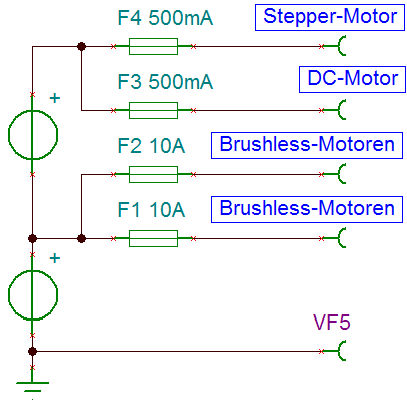
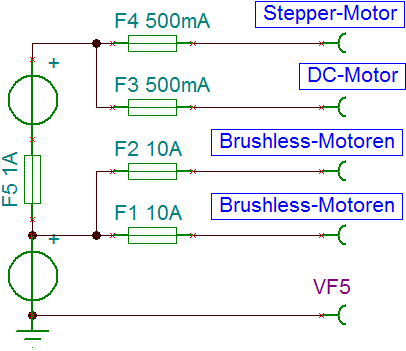
Diverse Texte ergänzt

diff --git a/doc/Enddokumentation/HorizontaleAusrichtung.tex b/doc/Enddokumentation/HorizontaleAusrichtung.tex
@@ -1,24 +1,2 @@
 \section{Horizontale Ausrichtung}
-    Um die Abwurfeinheit zum Ziel auszurichten, wird ein verstellbarer Mechanismus 
-    benötigt, der eine hohe Schrittgenauigkeit aufweist. Der Drehpunkt befindet sich 
-    möglichst unter den Schwungrädern, damit die Position des Abwurfes im Zentrum des 
-    Spielfeldes bleibt. Die Drehung wird mit einem Schrittmotor realisiert. Die 
-    Auflösung des flachen Schrittmotores beträgt 1.8 Grad/Schritt. Ein Schrittmotor 
-    ist für diese Anwendung am Besten geeignet, da somit eine sehr exakte Ansteuerung 
-    gewährleistet wird. Die Übersetzung des Zahnritzels zur Grundplatte beträgt 
-    $1/28$. Somit wird pro Schritt eine Dadurch kann der Verstellwinkel, 
-    welcher von der Position des Zieles abhängt, genau eingestellt werden. Der 
-    Schrittmotor wird in der Abwurfeinheit angebracht und treibt ein Ritzel an, welches 
-    in einen Zahnkranz eingreift. Dadurch kann die Abwurfeinheit gedreht werden. Dies 
-    ist in Abbildung \ref{abb:} ersichtlich. Damit die Bauhöhe nicht zusätzlich 
-    vergrössert wird, ist der Zahnkranz in die Bodenplatte integriert. Die Bodenplatte 
-    mit dem Zahnkranz reicht nicht über die ganze Abwurfeinheit, damit die Masse 
-    möglichst klein gehalten werden kann. Der Schrittmotor ist nach dem folgenden 
-    Drehmoment von ca. $2Nmm$ ausgelegt. Dies ist sehr klein, da nur der Reibungskoeffizient 
-    und die Normalkraft, welche vom Gewicht der Abwurfeinheit abhängt, das Moment erzeugen. 
-    Der Reibungskoeffizient wird durch die Lagerung klein gehalten. Die Lagerung erfolgt 
-    im Drehzentrum durch eine Hülse und im Endbereich der Abwurfeinheit durch zwei 
-    Kugelrollen, welche mit einem seitlichen Abstand angebracht sind. Dadurch wird die 
-    Auflagefläche verbreitert und das allfällige Kippen der Abwurfeinheit verhindert. 
-    Die Ansteuerung der Schrittmotoren erfolgt über den selbst konstruierten Controller, 
-    der als schwarzen Box in Abbildung \ref{abb:} dargestellt ist.
+    Die Ansteuerung des Stepper-Motors erfolgt über die entwickelte Hardware der PREN-ET-Gruppe. Dieses Board kann direkt auf das Freedom-Board aufgesteckt und über die Konsole bedient werden. Die gesamte Dokumentation dazu ist im Anhang \ref{apx:} angefügt.

diff --git a/doc/Enddokumentation/Grundaufbau.tex b/doc/Enddokumentation/Grundaufbau.tex
@@ -6,7 +6,7 @@
     Steuereinheiten auf dem Basismodul angebracht. Das Startsignal wird mittels W-Lan 
     von einem externen Labtop übertragen.\\
     Der ganze Aufbau des Ballwurfmechanismus ist sehr simple gehalten. Er besteht 
-    hauptsächlich aus zwei 5mm dicken Acrylglasplatten, in welcher alle mechanischen 
+    hauptsächlich aus zwei $5\si{\milli\meter}$ dicken Acrylglasplatten, in welcher alle mechanischen 
     Vorrichtungen gelagert sind. Durch diesen Aufbau können Änderungen schnell und 
     einfach angepasst werden. Die Ausrichtung des Abwurfmechanismus erfolgt durch 
     einen sehr flachen Steppermotor, welcher in der drehenden Abwurfeinheit angebracht 
@@ -52,4 +52,7 @@
         in Abbildung \ref{abb:Spannungsversorgung} zeigt, wie die Spannungsversorgung 
         realisiert ist. Das Freedom-Board wird über USB vom Akkumulator des Smartphone 
         gespeist. Sämtliche Datenblätter zu den verwendeten Motoren sind im Anhangsdokument 
-        angefügt.
+        angefügt. Das zweite Netzteil wurde so umgebaut, dass es potentialfrei arbeitet. So 
+        ist es möglich, dass dies die $12\si{\volt}$ auf die Spannung des ersten Netzteils 
+        generieren kann. Die Sicherung zwischen den beiden Netzteile ist als Sicherheit 
+        hinzugefügt für den Fall, dass es Probleme mit der Potentialfreiheit gibt.

diff --git a/doc/Enddokumentation/Foerderband.tex b/doc/Enddokumentation/Foerderband.tex
@@ -1,2 +1,16 @@
 \section{Förderband}
 \label{sec:Foerderband}
+    Die Ansteuerung des Motors, der das Förderband antreibt erfolgt mittels PWM. Auf diese 
+    weise lässt sich die Drehzahl und somit die Nachführgeschwindigkeit einstellen. Das 
+    Band muss nur ein eine Richtung angetrieben werden, wodurch die Ansteuerung einfacher 
+    realisiert werden kann. Das Schema ist in Abbildung \ref{abb:SchemaAnsteuerung} 
+    ersichtlich. Im wesentlichen besteht diese Ansteuerung aus einem Vortreiber und eines 
+    Schalters. Der Treiber dient dazu, den Schalter möglichst schnell und effizient zu 
+    öffnen und zu schliessen. Auf diese Weise reduziert man die Schaltverluste. 
+    \begin{figure}[h!]
+    	\includegraphics[width=0.4\textwidth,clip,trim=0mm 0mm 0mm 0mm]
+    	{Enddokumentation/Bilder/Schema_DC-Ansteuerung.png}
+    	\centering
+    	\caption{Schema des Förderbandantriebes}
+    	\label{abb:SchemaAnsteuerung}
+    \end{figure}

diff --git a/doc/Dokumentation.tex b/doc/Dokumentation.tex
@@ -16,15 +16,14 @@ autonomen Ballwerfers}
     \input{../common/Titelblatt}
     %
     % Inhlatsverzeichnis umbenennen und anschliessend einen Seitenumbruch
-    %   
+    %  
+    \input{Enddokumentation/Abstract} 
     \renewcommand{\contentsname}{Inhalt}
     \tableofcontents
     \newpage 
     %
     % Start mit der eigentlicher Arbeit
     %    
-    \input{Enddokumentation/Abstract}
-    \newpage
     \input{Enddokumentation/Danksagung}
     \input{Enddokumentation/Einleitung}
     \input{Enddokumentation/Von_der_Idee_zum_Produkt}
